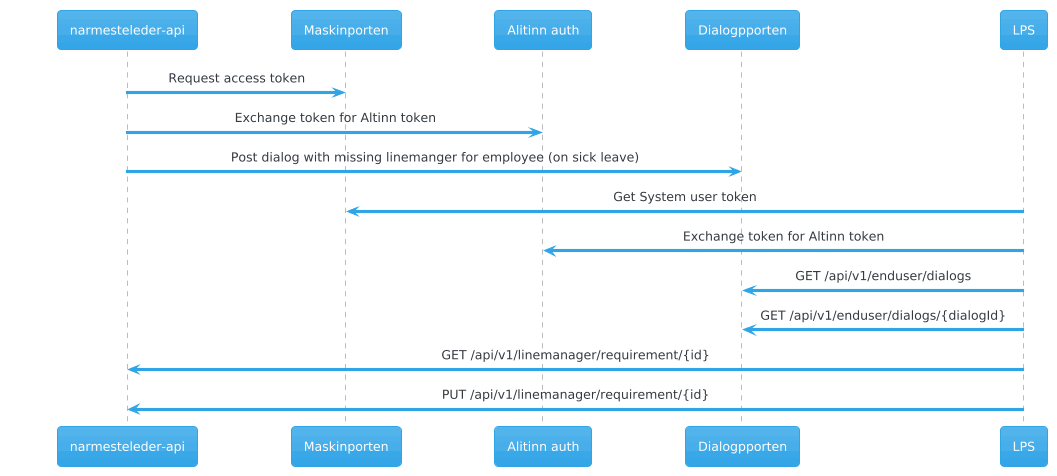
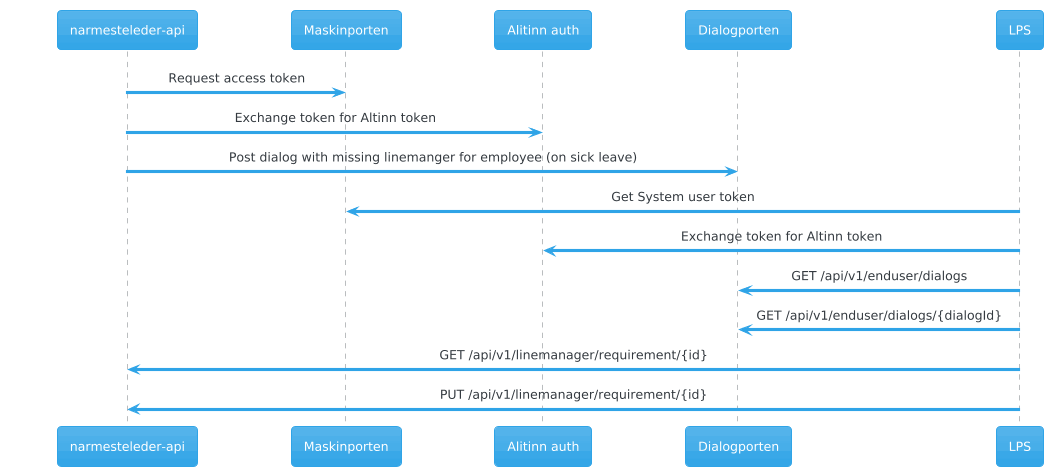
Fix spelling of Dialogporten in uml diagram (#90)

diff --git a/documentation/request-flow-for-lps.md b/documentation/request-flow-for-lps.md
@@ -1,7 +1,7 @@
 # Assign line manager (Nærmeste leder) from LPS viewpoint
 The Nav api will share the need to assign a line manager (nærmeste leder) for an employee with the organization through Dialogporten.
 It can be viewed in the Alinn innboks, or fetched by other systems through Dialogporten api.
-Dialogporten is a sytestem delivered by Altinn. Check out their [documentation](https://docs.altinn.studio/nb/dialogporten/reference/openapi/) for more information.
+Dialogporten is a system delivered by Altinn. Check out their [documentation](https://docs.altinn.studio/nb/dialogporten/reference/openapi/) for more information.
 
 When the dialog is read by api, it contains link to a resource in Nav api to get National Identifier (fødselsnummer) and name of the employee in need of a line manager.
 
